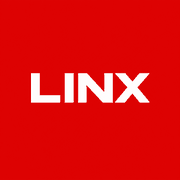
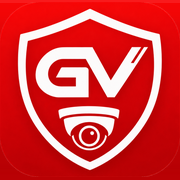
Add files via upload

diff --git a/index.html b/index.html
@@ -1,22 +1,22 @@
 <meta name="viewport" content="width=device-width, initial-scale=1, viewport-fit=cover">
 <meta name="color-scheme" content="light dark">
 <meta name="theme-color" content="#1f2126">
-<meta name="apple-mobile-web-app-title" content="LINX">
+<meta name="apple-mobile-web-app-title" content="GV Watch">
 <meta name="apple-mobile-web-app-capable" content="yes">
 <meta name="mobile-web-app-capable" content="yes">
 <meta name="apple-mobile-web-app-status-bar-style" content="black">
-<meta name="application-name" content="LINX Secure Watch">
+<meta name="application-name" content="GV Security Watch">
 <link rel="manifest" href="manifest.webmanifest">
 <link rel="icon" type="image/png" sizes="32x32" href="favicon-32.png">
 <link rel="icon" type="image/png" sizes="192x192" href="icon-192.png">
 <link rel="apple-touch-icon" sizes="180x180" href="apple-touch-icon.png">
 <meta name="format-detection" content="telephone=no">
-<title>LINX Secure Watch</title>
+<title>GV Security Watch</title>
 <meta name="description" content="Security incident reporting and case management for Grandview Hotel, Singapore.">
 <link rel="preconnect" href="https://fonts.googleapis.com">
 <link rel="stylesheet" href="https://fonts.googleapis.com/css2?family=IBM+Plex+Mono:wght@400;500&family=Public+Sans:wght@400;500;600;700;800;900&display=swap">
 <style>
-/* Layout: a charcoal command bar carrying the red LINX mark, then one working pane per role. Red is the brand; severity colours carry the warnings. */
+/* Layout: a charcoal command bar carrying the red GV mark, then one working pane per role. Red is the brand; severity colours carry the warnings. */
 :root{
   --bg:#f3f3f4; --surface:#ffffff; --surface-2:#f7f7f8; --ink:#1c1d21; --ink-2:#50535b; --ink-3:#80838c;
   --line:#dcdde1; --accent:#25272d; --accent-ink:#ffffff; --brand:#d0102b; --brand-soft:#fde8ea; --focus:#2563eb;
@@ -79,7 +79,7 @@ textarea{min-height:6rem;resize:vertical}
 .err{font-size:.82rem;color:var(--sev-crit);margin-top:.25rem;font-weight:600}
 .field.invalid input,.field.invalid select,.field.invalid textarea{border-color:var(--sev-crit)}
 
-/* LINX mark */
+/* GV mark */
 .logo{display:flex;align-items:center;gap:.6rem}
 .mark{display:block;width:2.4rem;height:2.4rem;border-radius:8px;flex:none}
 .logo-name{font-weight:800;font-size:1.05rem;line-height:1.1;letter-spacing:.01em}
@@ -363,7 +363,7 @@ input[type=datetime-local],input[type=date]{display:block}
 
 <script>
 /* =========================================================================
-   LINX Secure Watch — security incident reporting & case management
+   GV Security Watch — security incident reporting & case management
    Prototype web app for Grandview Hotel (Singapore).
    Part 1: incident report form (hotel staff)
    Part 2: incident database with role-based access, search, backup
@@ -434,14 +434,14 @@ const STATUS_CLASS={"Open":"s-open","In progress":"s-assigned","Resolved":"s-res
 const STATUS_HELP={"Open":"Reported, not started yet","In progress":"Being handled by IT security","Resolved":"Closed"};
 /* Records saved before the workflow change are read in the current format */
 const OLD_STATUS={"Assigned to IT":"In progress","Awaiting review":"In progress"};
-const OLD_IDS={"GV-0008":"LINX - 0001","GV-0217":"LINX - 0002","GV-1042":"LINX - 0003","GV-1110":"LINX - 0004","GV-1288":"LINX - 0005","GV-1301":"LINX - 0006","GV-1420":"LINX - 0007","GV-1533":"LINX - 0008","GV-1602":"LINX - 0009","GV-1750":"LINX - 0010"};
+const OLD_IDS={"GV-0008":"GV - 0001","GV-0217":"GV - 0002","GV-1042":"GV - 0003","GV-1110":"GV - 0004","GV-1288":"GV - 0005","GV-1301":"GV - 0006","GV-1420":"GV - 0007","GV-1533":"GV - 0008","GV-1602":"GV - 0009","GV-1750":"GV - 0010","LINX - 0001":"GV - 0001","LINX - 0002":"GV - 0002","LINX - 0003":"GV - 0003","LINX - 0004":"GV - 0004","LINX - 0005":"GV - 0005","LINX - 0006":"GV - 0006","LINX - 0007":"GV - 0007","LINX - 0008":"GV - 0008","LINX - 0009":"GV - 0009","LINX - 0010":"GV - 0010"};
 const PDPA=["Not assessed","Not notifiable","Notifiable: tell PDPC within 3 days","PDPC notified"];
 
 /* Demo accounts. Only salted SHA-256 hashes are stored, never plain passwords. */
 const USERS=[
[6 lines of base64/hex data omitted]
 ];
 const MANAGER=USERS[1], IT=USERS[2];
 const ROLE_LABEL={staff:"Hotel staff",manager:"Security manager",admin:"IT security officer"};
@@ -515,7 +515,7 @@ applyTheme(store.get("theme","auto"));
 
 /* ---------- Sample data (clearly marked as examples) ---------- */
 function seededRandom(seed){ return function(){ seed=(seed*1664525+1013904223)%4294967296; return seed/4294967296; }; }
-const SAMPLE_PEOPLE=[["LINX - 0003","Nicolas","Front Office"],["LINX - 0004","Ahmad Rahim","Front Office"],["LINX - 0005","Li Mei Chen","Reservations"],["LINX - 0006","Rajesh Kumar","Reservations"],["LINX - 0007","Siti Aminah","Housekeeping"],["LINX - 0008","Daniel Koh","Food & Beverage"],["LINX - 0009","Grace Wong","Finance"],["LINX - 0001","LIN","IT"],["LINX - 0010","Nurul Huda","Sales & Marketing"],["LINX - 0002","Ravi","Security"]];
+const SAMPLE_PEOPLE=[["GV - 0003","Nicolas","Front Office"],["GV - 0004","Ahmad Rahim","Front Office"],["GV - 0005","Li Mei Chen","Reservations"],["GV - 0006","Rajesh Kumar","Reservations"],["GV - 0007","Siti Aminah","Housekeeping"],["GV - 0008","Daniel Koh","Food & Beverage"],["GV - 0009","Grace Wong","Finance"],["GV - 0001","LIN","IT"],["GV - 0010","Nurul Huda","Sales & Marketing"],["GV - 0002","Ravi","Security"]];
 const SAMPLE_TEXT={
   T01:["Someone tried to open the PMS admin screen using a manager's ID while the manager was on leave.","A person who said he was from IT asked to use the back-office PC at the front desk. He could not show a staff pass."],
   T02:["PMS locked my account after several wrong passwords that I did not enter.","Seven failed login attempts on the reservations shared login between 2 am and 3 am."],
@@ -570,15 +570,15 @@ function makeSampleData(){
     const d=new Date(now-(i*17+5)*36e5);
     const rec=Object.assign({id:"",occurredAt:d.toISOString(),reportedAt:new Date(d.getTime()+20*6e4).toISOString(),typeId:"T02",severity:i===0?"high":"medium",
       system:"Property management system (PMS)",location:"Reservations office L2",description:"PMS account locked after failed logins I did not make. Happened again this shift.",
-      guestData:"No",reporterId:"LINX - 0005",reporterName:"Li Mei Chen",dept:"Reservations",status:i<2?"Open":"In progress",sample:true},blankCase());
+      guestData:"No",reporterId:"GV - 0005",reporterName:"Li Mei Chen",dept:"Reservations",status:i<2?"Open":"In progress",sample:true},blankCase());
     rec.actions.push(act(d.getTime()+20*6e4,"Li Mei Chen","staff","Reported the incident"));
     if(i>=2){ rec.acknowledgedBy=IT.name; rec.acknowledgedAt=new Date(d.getTime()+2*36e5).toISOString(); rec.assignedTo=IT.name; rec.assignedAt=rec.acknowledgedAt; rec.instruction=SAMPLE_INSTR.T02; rec.actions.push(act(d.getTime()+2*36e5,IT.name,"admin","Started work: "+SAMPLE_INSTR.T02)); }
     out.push(rec);
   }
   /* Two unacknowledged critical incidents so the alert panel has something to show */
   const c1=new Date(now-2.5*36e5), c2=new Date(now-26*36e5);
-  [[c1,"T05","Email (Outlook)","Reservations office L2","Pre-arrival email with 46 guest names, emails and passport numbers was sent to an external address by mistake. Recall failed.","LINX - 0006","Rajesh Kumar","Reservations",12],
-   [c2,"T03","Property management system (PMS)","Back office L1","Overnight export of 3,100 guest profiles from a front desk login that was not in use at the time.","LINX - 0008","Daniel Koh","Food & Beverage",40]].forEach(([d,t,sys,loc,desc,eid,nm,dp,m])=>{
+  [[c1,"T05","Email (Outlook)","Reservations office L2","Pre-arrival email with 46 guest names, emails and passport numbers was sent to an external address by mistake. Recall failed.","GV - 0006","Rajesh Kumar","Reservations",12],
+   [c2,"T03","Property management system (PMS)","Back office L1","Overnight export of 3,100 guest profiles from a front desk login that was not in use at the time.","GV - 0008","Daniel Koh","Food & Beverage",40]].forEach(([d,t,sys,loc,desc,eid,nm,dp,m])=>{
     const rep=new Date(d.getTime()+m*6e4);
     const rec=Object.assign({id:"",occurredAt:d.toISOString(),reportedAt:rep.toISOString(),typeId:t,severity:"critical",system:sys,location:loc,description:desc,guestData:"Yes",reporterId:eid,reporterName:nm,dept:dp,status:"Open",sample:true},blankCase());
     rec.actions.push(act(rep,nm,"staff","Reported the incident")); out.push(rec);
@@ -623,8 +623,8 @@ const sevPill=s=>`<span class="sev ${s}">${s}</span>`;
 const statusPill=s=>`<span class="status ${STATUS_CLASS[s]||""}" title="${esc(STATUS_HELP[s]||"")}">${esc(s)}</span>`;
 function toast(msg,crit){ const t=document.createElement("div"); t.className="toast"+(crit?" crit":""); t.textContent=msg; $("#toasts").appendChild(t); setTimeout(()=>t.remove(),6000); }
 function localInputValue(d){ const p=n=>String(n).padStart(2,"0"); return `${d.getFullYear()}-${p(d.getMonth()+1)}-${p(d.getDate())}T${p(d.getHours())}:${p(d.getMinutes())}`; }
[1 lines of base64/hex data omitted]
-const logo=sub=>`<div class="logo"><img class="mark" src="${MARK_SRC}" alt="LINX" width="40" height="40"><div><div class="logo-name">Secure Watch</div><div class="logo-sub">${sub}</div></div></div>`;
[1 lines of base64/hex data omitted]
+const logo=sub=>`<div class="logo"><img class="mark" src="${MARK_SRC}" alt="GV" width="40" height="40"><div><div class="logo-name">Security Watch</div><div class="logo-sub">${sub}</div></div></div>`;
 
 /* ---------- Authentication ---------- */
 function lockInfo(){ return store.get("lock",{fails:0,until:0}); }
@@ -959,7 +959,7 @@ function renderLog(){
   $("#sortSel").onchange=e=>{ const [k,d]=e.target.value.split("|"); state.sort={key:k,dir:d}; again(); };
   document.querySelectorAll("[data-sort]").forEach(b=>b.onclick=()=>{const k=b.dataset.sort; state.sort={key:k,dir:state.sort.key===k&&state.sort.dir==="desc"?"asc":"desc"}; again();});
   $("#prev").onclick=()=>{state.page--;again();}; $("#next").onclick=()=>{state.page++;again();};
-  $("#csvBtn").onclick=()=>exportCsv(rows,"linx-incidents");
+  $("#csvBtn").onclick=()=>exportCsv(rows,"gv-incidents");
 }
 function toCsv(rows){
   const cols=[["id","Incident ID"],["reportedAt","Reported at"],["occurredAt","Occurred at"],["typeId","Type"],["severity","Severity"],["system","System"],["location","Location"],["guestData","Guest data involved"],["dept","Department"],["reporterId","Employee ID"],["reporterName","Reported by"],["status","Status"],["acknowledgedBy","Acknowledged by"],["assignedTo","Handled by"],["instruction","Action plan"],["fixNote","Resolution"],["pdpa","PDPA decision"],["description","Description"]];
@@ -1063,7 +1063,7 @@ function renderDashboard(){
   $("#dr").onchange=e=>{state.dashRange=e.target.value;renderDashboard();bindOpenButtons();};
   $("#dd").onchange=e=>{state.dashDept=e.target.value;renderDashboard();bindOpenButtons();};
   $("#toLog").onclick=()=>{ state.tab="log"; renderShell(); scrollTo(0,0); };
-  $("#dashCsv").onclick=()=>exportCsv(data,"linx-security-report");
+  $("#dashCsv").onclick=()=>exportCsv(data,"gv-security-report");
 }
 
 /* ---------- LIN: System admin (backup, restore, audit) ---------- */
@@ -1106,9 +1106,9 @@ function renderSystem(){
   const snap=()=>{ const b=store.get("backups",[]); b.unshift({at:new Date().toISOString(),by:state.user.name,data:incidents()}); store.set("backups",b.slice(0,7)); audit("Took backup snapshot"); };
   $("#bkNow").onclick=()=>{snap();toast("Snapshot saved.");renderSystem();bindOpenButtons();};
   $("#bkFile").onclick=()=>{ const json=JSON.stringify({exportedAt:new Date().toISOString(),incidents:incidents()},null,2);
-    try{ const a=document.createElement("a"); a.href=URL.createObjectURL(new Blob([json],{type:"application/json"})); a.download=`linx-backup-${new Date().toISOString().slice(0,10)}.json`; document.body.appendChild(a); a.click(); a.remove(); }catch(e){}
+    try{ const a=document.createElement("a"); a.href=URL.createObjectURL(new Blob([json],{type:"application/json"})); a.download=`gv-backup-${new Date().toISOString().slice(0,10)}.json`; document.body.appendChild(a); a.click(); a.remove(); }catch(e){}
     audit("Saved backup file"); showTextModal("Backup file created","The backup is downloading. If the download was blocked, copy the text below into a .json file.",json); };
-  $("#restoreFile").onchange=e=>{ const file=e.target.files[0]; if(!file)return; const r=new FileReader(); r.onload=()=>{ try{ const obj=JSON.parse(r.result); const d=Array.isArray(obj)?obj:obj.incidents; if(!Array.isArray(d)||!d.every(x=>x.id&&x.typeId&&x.severity)) throw 0; confirmRestore(d,"file "+file.name); }catch(err){ toast("That file is not a LINX Secure Watch backup. Choose a .json file saved from this page.",true);} }; r.readAsText(file); };
+  $("#restoreFile").onchange=e=>{ const file=e.target.files[0]; if(!file)return; const r=new FileReader(); r.onload=()=>{ try{ const obj=JSON.parse(r.result); const d=Array.isArray(obj)?obj:obj.incidents; if(!Array.isArray(d)||!d.every(x=>x.id&&x.typeId&&x.severity)) throw 0; confirmRestore(d,"file "+file.name); }catch(err){ toast("That file is not a GV Security Watch backup. Choose a .json file saved from this page.",true);} }; r.readAsText(file); };
   document.querySelectorAll("[data-restore]").forEach(b=>b.onclick=()=>{ const s=backups[+b.dataset.restore]; confirmRestore(s.data,"snapshot from "+fmtFull(s.at)); });
   $("#gfSave").onclick=()=>{ const v=$("#gfUrl").value.trim(); if(v&&!/^https:\/\/(docs\.google\.com\/forms|forms\.gle)\//.test(v)){toast("Enter a Google Forms link that starts with https://docs.google.com/forms or https://forms.gle",true);return;} store.set("googleFormUrl",v); audit("Updated Google Form link"); toast("Link saved."); };
   if($("#gsSave")) $("#gsSave").onclick=()=>{ const u=$("#gsUrl").value.trim(), k=$("#gsKey").value.trim();
